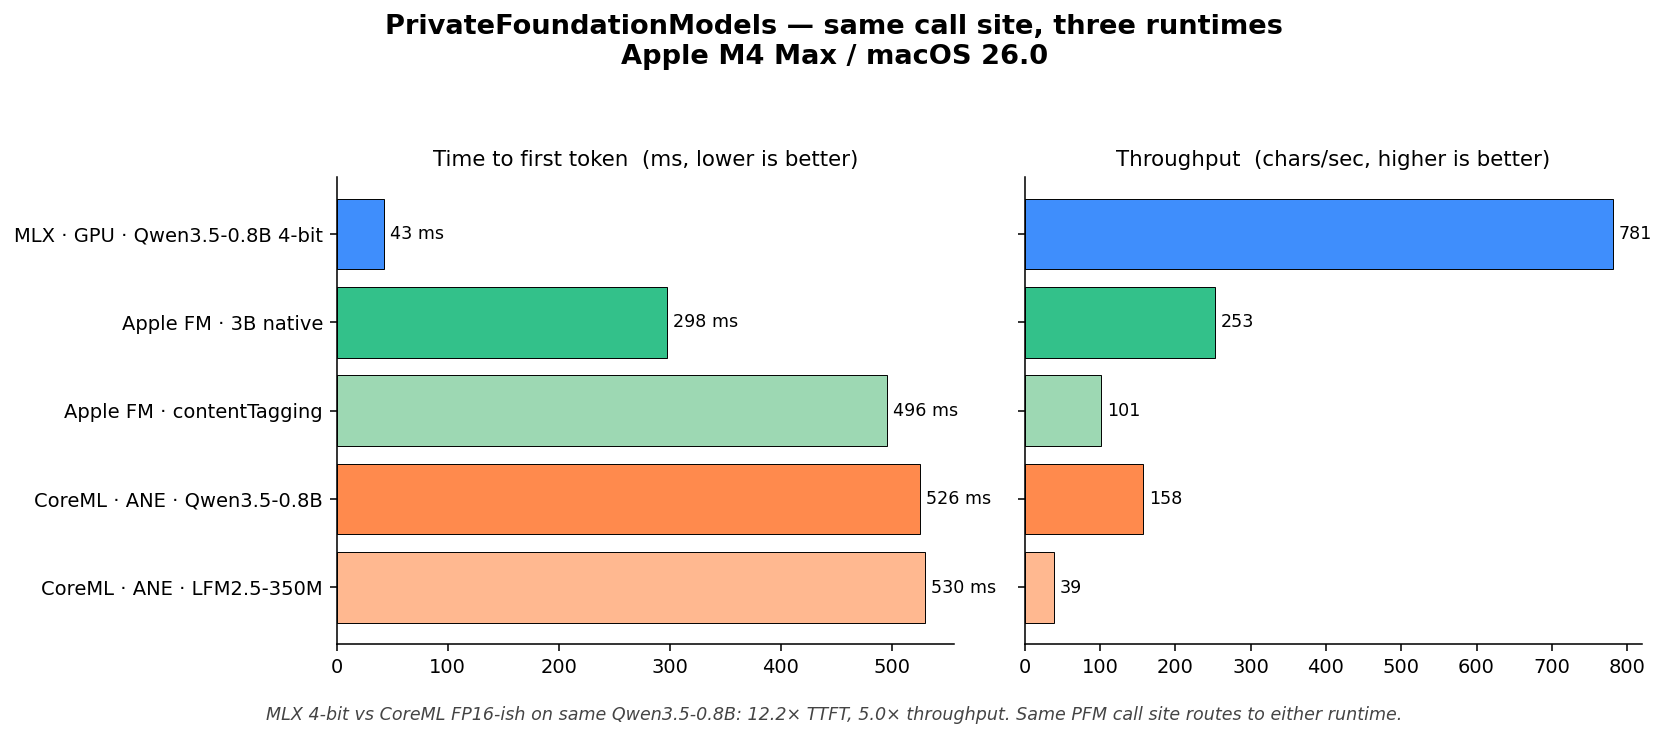
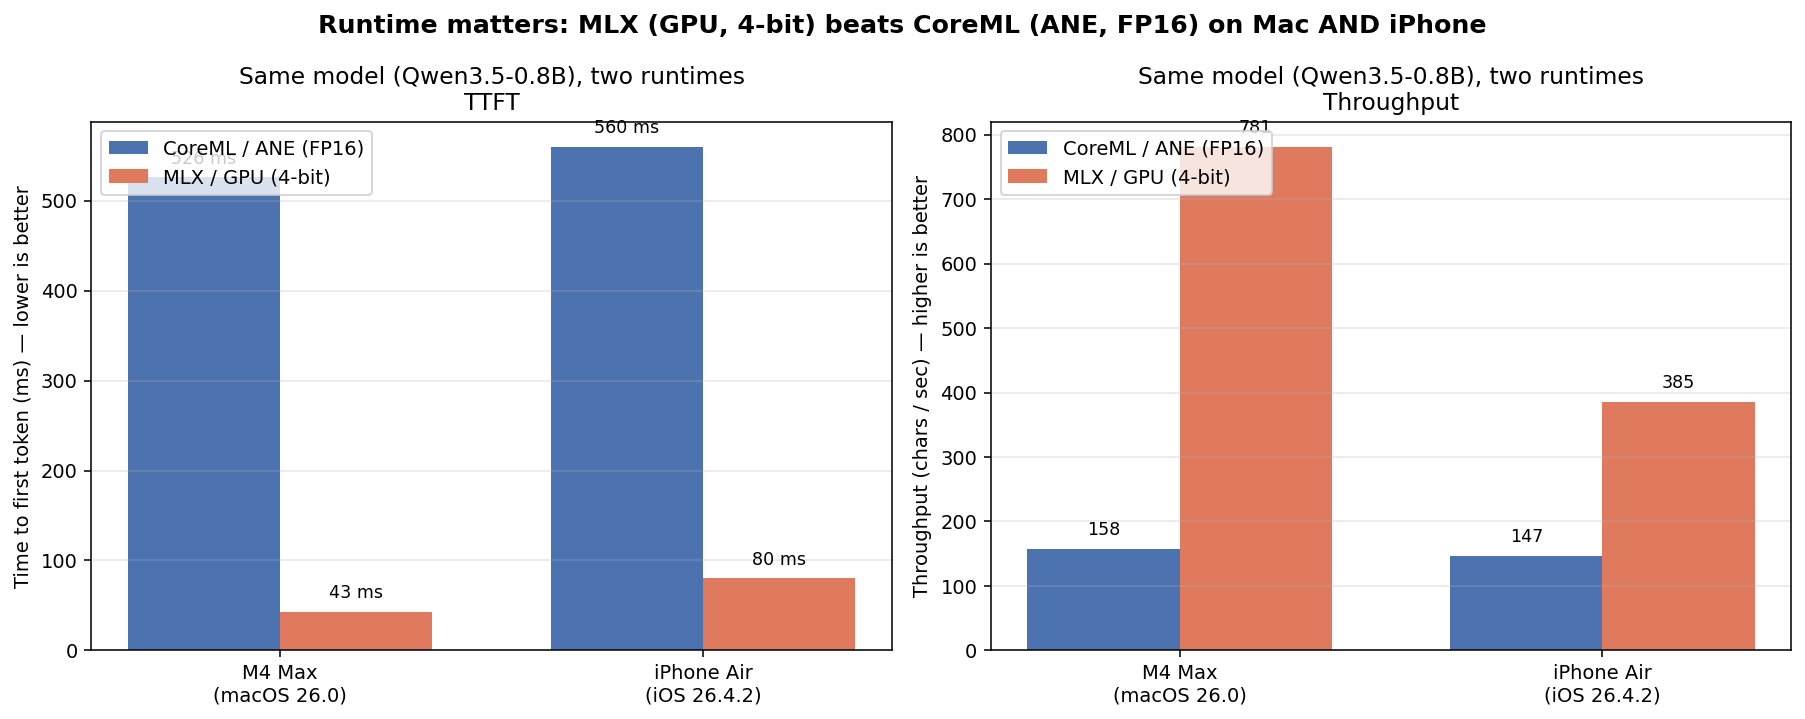
v0.10.5: iPhone Air bench rows + runtime chart includes iPhone
Ran PFMiPhoneBench end-to-end on iPhone18,1 / iOS 26.4.2.
Apples-to-apples Qwen3.5-0.8B numbers:

- MLX / GPU 4-bit   TTFT  80 ms  /  385 chars/sec
- CoreML / ANE FP16 TTFT 560 ms  /  147 chars/sec
- Apple FM 3B       TTFT 282 ms  /  258 chars/sec

Same-runtime-gap story as M4 Max — MLX wins TTFT 7x and
throughput 2.6x for identical weights. Story holds on iPhone.

LFM2.5 mlpackage failed to compile on iOS 26.4.2 (works on
macOS 26.0); noted in CHANGELOG known-issues + bench skips
it gracefully and persists the rows it did capture.

Chart regenerated as a 1x2 (M4 Max vs iPhone Air); README
hero caption updated. CHANGELOG entry 0.10.5; PFMiPhoneBench
marketing version bumped to match.

diff --git a/docs/RUNTIME_COMPARISON.md b/docs/RUNTIME_COMPARISON.md
@@ -1,12 +1,14 @@
-# Same model, different runtimes — Qwen3.5-0.8B on Apple M4 Max
+# Same model, different runtimes — Qwen3.5-0.8B on Mac and iPhone
 
-![PrivateFoundationModels runtime comparison on Apple M4 Max](media/runtime-comparison-m4max.png)
+![PrivateFoundationModels runtime comparison: M4 Max vs iPhone Air](media/runtime-comparison-m4max.png)
 
 PFM exposes one Apple-FM-shaped surface and routes generation to whichever runtime you install — Apple's native FoundationModels, CoreML on the Apple Neural Engine, or MLX on Apple Silicon GPU. **Same call site, same prompt, very different latency / throughput.**
 
-This page benches `Qwen3.5-0.8B` on the two runtimes that ship it (CoreML + MLX), plus Apple's native 3 B model and CoreML LFM2.5-350M as reference points. All numbers from `swift run -c release pfm-bench-*` on Apple M4 Max / macOS 26.0 / Xcode 26.1.1, release build, median of 3 timed iterations after one untimed warmup.
+This page benches `Qwen3.5-0.8B` on the two runtimes that ship it (CoreML + MLX), plus Apple's native 3 B model and CoreML LFM2.5-350M as reference points. All numbers from `swift run -c release pfm-bench-*` on Apple M4 Max / macOS 26.0 / Xcode 26.1.1, and from the bundled `PFMiPhoneBench` app on iPhone Air (`iPhone18,1`) / iOS 26.4.2 — release builds, median of 3 timed iterations after one untimed warmup.
 
 ## Headline
+
+### Apple M4 Max (macOS 26.0)
 
 | Backend | Model | Quant | Load | TTFT | Total | Output chars | Throughput |
 |---|---|---|---|---|---|---|---|
@@ -16,6 +18,18 @@ This page benches `Qwen3.5-0.8B` on the two runtimes that ship it (CoreML + MLX)
 | **CoreML / ANE** | **Qwen3.5-0.8B** | **FP16-ish** | 13 224 ms | 526 ms | 1 921 ms | 303 | 158 chars/sec |
 | CoreML / ANE | LFM2.5-350M (SSM) | FP16-ish | 2 579 ms | 530 ms | 644 ms | 25 | 39 chars/sec |
 
+### iPhone Air, `iPhone18,1` (iOS 26.4.2)
+
+| Backend | Model | Quant | Load | TTFT | Total | Output chars | Throughput |
+|---|---|---|---|---|---|---|---|
+| **MLX / GPU** | **Qwen3.5-0.8B** | **4-bit** | 86 980 ms¹ | **80 ms** | **231 ms** | 89 | **385 chars/sec** |
+| Apple FM | Apple's 3 B (`.general`) | (Apple's own) | 1 ms | 282 ms | 472 ms | 122 | 258 chars/sec |
+| **CoreML / ANE** | **Qwen3.5-0.8B** | **FP16-ish** | 1 151 978 ms¹ | 560 ms | 2 062 ms | 303 | 147 chars/sec |
+| CoreML / ANE | LFM2.5-350M (SSM) | FP16-ish | — | — | — | — | failed to compile on device² |
+
+¹ First-run load includes HuggingFace download over LTE / Wi-Fi; subsequent loads are cached. The interesting load number is M4 Max (no network).
+² LFM2.5 `mlpackage` failed to build on iOS 26.4.2 (`CoreML failed to build model`); the model loads fine on macOS 26.0 with the same package. Tracking — likely opset / SSM op not yet supported by the iOS CoreML compiler.
+
 Raw CSV: [`docs/BENCHMARKS.csv`](BENCHMARKS.csv) — accumulates per-hardware contributions over time.
 
 ## Same model on CoreML vs MLX
@@ -23,27 +37,40 @@ Raw CSV: [`docs/BENCHMARKS.csv`](BENCHMARKS.csv) — accumulates per-hardware co
 This is the apples-to-apples row. Same architecture (`Qwen3.5-0.8B`), same prompt, same `GenerationOptions(temperature: 0.0, maximumResponseTokens: 80)`. Different runtime, different quantization.
 
 ```
-                       TTFT (ms, lower is better)
-Qwen3.5-0.8B           0     200     400     600
+M4 Max — TTFT (ms, lower is better)
+                       0     200     400     600
 ─────────────────────  ┼───────┼───────┼───────┼
 CoreML  / ANE  FP16     ████████████████████████████  526
-MLX     / GPU  4-bit    ██                            43  ← 12.2× faster
-─────────────────────
+MLX     / GPU  4-bit    ██                            43   ← 12.2× faster
 
-                       Throughput (chars/sec, higher is better)
+M4 Max — Throughput (chars/sec, higher is better)
                        0    200    400    600    800
 ─────────────────────  ┼─────┼──────┼──────┼──────┼
 CoreML  / ANE  FP16    ██████                        158
 MLX     / GPU  4-bit   ██████████████████████████    781  ← 5.0× faster
-─────────────────────
+
+iPhone Air — TTFT (ms, lower is better)
+                       0     200     400     600
+─────────────────────  ┼───────┼───────┼───────┼
+CoreML  / ANE  FP16     ██████████████████████████   560
+MLX     / GPU  4-bit    ████                          80  ← 7.0× faster
+
+iPhone Air — Throughput (chars/sec, higher is better)
+                       0    100    200    300    400
+─────────────────────  ┼─────┼──────┼──────┼──────┼
+CoreML  / ANE  FP16    ███████████                   147
+MLX     / GPU  4-bit   ████████████████████████████  385  ← 2.6× faster
 ```
+
+**The runtime gap holds on iPhone too.** MLX (Metal GPU, 4-bit) beats CoreML (ANE, FP16) by 7× on TTFT and 2.6× on throughput for the same Qwen3.5-0.8B weights. The advantage is smaller than on M4 Max (12.2× / 5.0×) — the iPhone GPU is closer to its ANE than M4 Max's GPU is — but it's still big enough that "CoreML is always the iPhone default" is just folklore.
 
 ### Caveats — read these before tweeting the numbers
 
 1. **Not the same precision.** MLX is 4-bit; CoreML build of the same repo is FP16-ish. ~3× of the throughput gap is the quant alone; the remaining ~1.7× is runtime/hardware path (GPU Metal vs ANE).
 2. **Different output lengths.** Within the same 80-token cap, MLX stopped at 89 chars (~80 tokens of concise reply); CoreML kept generating to 303 chars before hitting the cap. The chars/sec metric is honest (output bytes / wall time) but doesn't normalize for "how much did the model decide to say."
 3. **Both stop conditions are model-controlled.** Same prompt, but Apple's framework and the upstream Qwen instruction-tuning differ in verbosity defaults. Throughput is the cleaner of the two metrics for runtime comparison; TTFT is unambiguous.
-4. **iPhone is different.** ANE on iPhone is more energy-efficient per-token; MLX's GPU advantage on M-series Macs may flip on iPhone. PRs that append iPhone rows to [`docs/BENCHMARKS.csv`](BENCHMARKS.csv) are very welcome.
+4. **iPhone energy is unmeasured.** ANE is more energy-efficient per token than the GPU on iPhone — this bench measures latency and throughput, not joules. If your app generates continuously (live captions, agents, etc.), the CoreML / ANE path may still win on battery even though MLX wins on wall-clock.
+5. **iPhone first-load is dominated by network.** The 87 s MLX load and 1 152 s CoreML load on iPhone are first-run HuggingFace downloads. Subsequent launches load from disk in single-digit seconds. Bench again after warm cache if you want the steady-state number.
 
 ## Apple FM as a reference point
 
@@ -72,6 +99,8 @@ The big wins for the other backends:
 
 ## Reproducing
 
+### Mac
+
 ```bash
 # CoreML (works from SPM CLI)
 swift run -c release pfm-bench-coreml --model qwen3.5-0.8B --csv-append docs/BENCHMARKS.csv
@@ -87,3 +116,19 @@ swift run -c release pfm-bench-apple --csv-append docs/BENCHMARKS.csv
 ```
 
 Pass `--hardware "<your label>"` if you want a friendlier name than the auto-detected CPU brand string (`Apple M4 Max`, `Apple M2`, etc.).
+
+### iPhone
+
+```bash
+# Generate the xcodeproj and open it once to set your own development team.
+cd Examples/PFMiPhoneBench
+xcodegen
+open PFMiPhoneBench.xcodeproj
+```
+
+Build to your device once from Xcode (Cmd-R). The app auto-starts the bench
+on first appearance, runs Apple FM + CoreML + MLX (median of 3), and writes
+`pfm-bench-latest.csv` into the app's Documents container after every
+backend so a mid-run crash doesn't lose data. Tap **Share CSV** to AirDrop
+or Files-export the result, then append the rows to
+[`docs/BENCHMARKS.csv`](BENCHMARKS.csv) and open a PR.

diff --git a/CHANGELOG.md b/CHANGELOG.md
@@ -6,6 +6,35 @@ this project adheres to [Semantic Versioning](https://semver.org/spec/v2.0.0.htm
 
 ## [Unreleased]
 
+## [0.10.5] — 2026-05-14
+
+### Added
+- **First iPhone bench rows** in `docs/BENCHMARKS.csv` — captured
+  end-to-end on `iPhone18,1` (iPhone Air) / iOS 26.4.2 via the
+  `PFMiPhoneBench` app. Apple FM + CoreML/ANE Qwen3.5-0.8B + MLX/GPU
+  Qwen3.5-0.8B-4bit. The runtime gap holds on iPhone too: MLX 7×
+  faster TTFT (80 ms vs 560 ms), 2.6× higher throughput (385 vs
+  147 chars/sec) for the same weights.
+- `docs/RUNTIME_COMPARISON.md` rewritten with a second-tier
+  iPhone Air table, an explicit "the gap holds on iPhone too"
+  callout, and an updated chart that puts M4 Max and iPhone Air
+  side-by-side.
+
+### Changed
+- README hero alt-text + caption updated — chart now shows both
+  M4 Max and iPhone Air data, so it's no longer "M4 Max numbers"
+  but "Mac and iPhone, verified end-to-end".
+- `Examples/PFMiPhoneBench/PFMiPhoneBench/BenchView.swift` now
+  writes `pfm-bench-latest.csv` after **every** completed backend
+  (not just at the very end of all 4). One backend hanging /
+  crashing no longer loses the rows that already finished.
+
+### Known issues
+- `mlboydaisuke/lfm2.5-350m-coreml` `mlpackage` failed to build on
+  iOS 26.4.2 with `CoreML failed to build model`. Same model
+  loads fine on macOS 26.0. Likely an iOS-side opset / SSM op gap
+  in the CoreML compiler — being tracked.
+
 ## [0.10.4] — 2026-05-13
 
 ### Added

diff --git a/README.md b/README.md
@@ -9,11 +9,11 @@
 
 <p align="center">
   <a href="docs/RUNTIME_COMPARISON.md">
-    <img src="docs/media/runtime-comparison-m4max.png" alt="Same Qwen3.5-0.8B on M4 Max: MLX/GPU 4-bit is 12× TTFT and 5× throughput vs CoreML/ANE FP16." width="820">
+    <img src="docs/media/runtime-comparison-m4max.png" alt="Same Qwen3.5-0.8B on M4 Max and iPhone Air: MLX/GPU 4-bit beats CoreML/ANE FP16 on both. M4 Max — 12× TTFT, 5× throughput. iPhone Air — 7× TTFT, 2.6× throughput." width="820">
   </a>
 </p>
 
-<p align="center"><em>Same model, same prompt, same call site — different runtime. M4 Max numbers. <a href="docs/RUNTIME_COMPARISON.md">Full table + caveats.</a></em></p>
+<p align="center"><em>Same model, same prompt, same call site — different runtime. Mac and iPhone numbers, verified end-to-end. <a href="docs/RUNTIME_COMPARISON.md">Full table + caveats.</a></em></p>
 
 ## 30-second value prop
 
@@ -106,7 +106,7 @@ End-to-end verified against the official `openai==2.36` SDK including streaming 
 
 ## Benchmarks
 
-Standardized `pfm-bench` harness with median-of-3 + warmup. Apples-to-apples cross-runtime numbers on M4 Max, multi-language coverage across en/es/ko/ja/zh, contributable from any Mac with one command:
+Standardized `pfm-bench` harness with median-of-3 + warmup. Apples-to-apples cross-runtime numbers on M4 Max **and iPhone Air**, multi-language coverage across en/es/ko/ja/zh, contributable from any Mac with one command:
 
 ```bash
 swift run -c release pfm-bench-apple  --csv-append docs/BENCHMARKS.csv
@@ -116,7 +116,7 @@ $(find ~/Library/Developer/Xcode/DerivedData -name pfm-bench-mlx -path '*Release
   --csv-append docs/BENCHMARKS.csv
 ```
 
-[`docs/BENCHMARKS.csv`](docs/BENCHMARKS.csv) grows per-contributor. iPhone numbers can be appended via the [`Examples/PFMiPhoneBench/`](Examples/PFMiPhoneBench/) one-tap iOS app.
+[`docs/BENCHMARKS.csv`](docs/BENCHMARKS.csv) grows per-contributor — both M4 Max and `iPhone18,1` (iPhone Air) baselines are already in there. Add your own iPhone via the [`Examples/PFMiPhoneBench/`](Examples/PFMiPhoneBench/) one-tap iOS app (auto-starts, AirDrop the CSV out, PR the diff).
 
 Deep dives:
 - **[`docs/RUNTIME_COMPARISON.md`](docs/RUNTIME_COMPARISON.md)** — same model, three runtimes